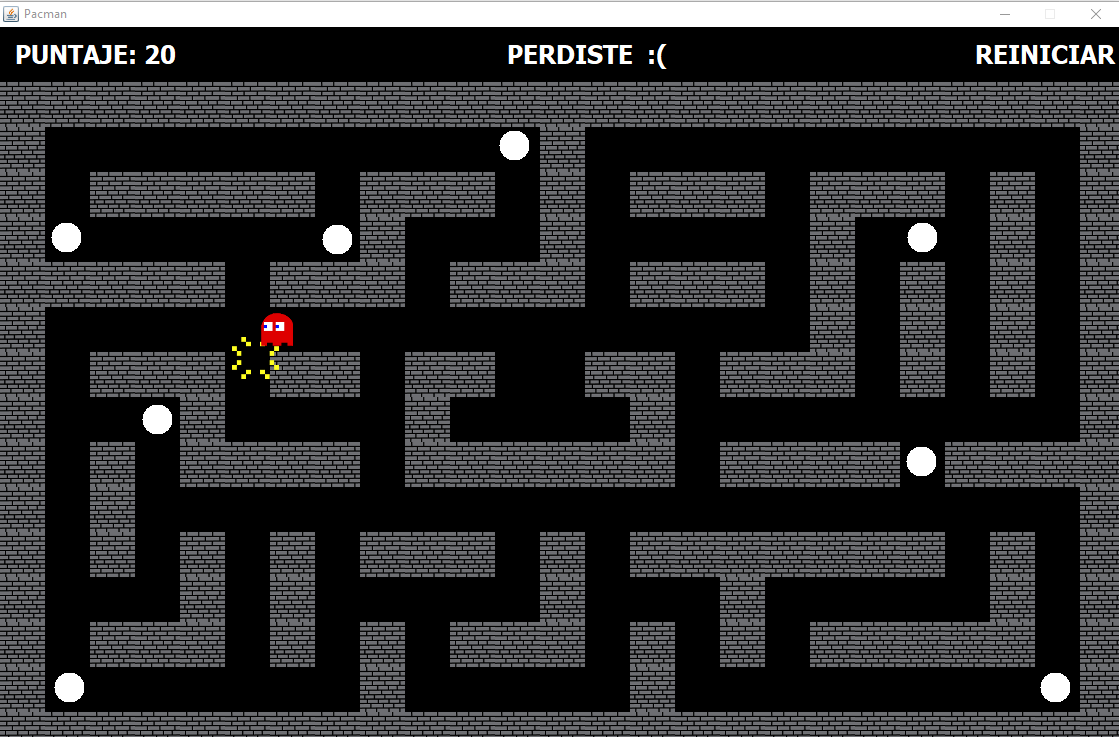
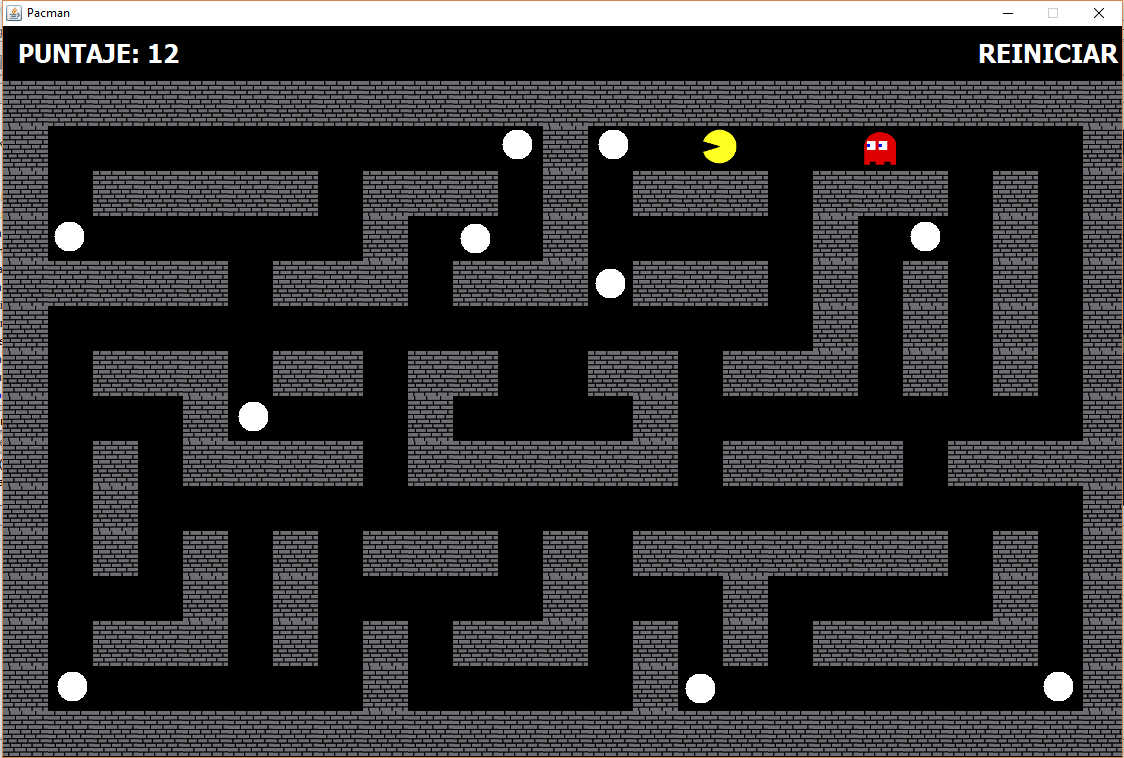
Capturas de pantalla completa

diff --git a/src/pacman/Tablero.java b/src/pacman/Tablero.java
@@ -323,9 +323,9 @@ public class Tablero {
     }
 
     private ArrayList<Punto> getPuntos() {
-        List<Punto> list = Arrays.asList(new Punto(595,48)/*,new Punto(499,48),new Punto(51,140),new Punto(906,364),
+        List<Punto> list = Arrays.asList(new Punto(595,48),new Punto(499,48),new Punto(51,140),new Punto(906,364),
                 new Punto(907,140),new Punto(683,408),new Punto(1040,590),new Punto(54,590),
-                new Punto(235,320),new Punto(411,504)*/);
+                new Punto(235,320),new Punto(411,504));
         return new ArrayList(list);
     }
     
